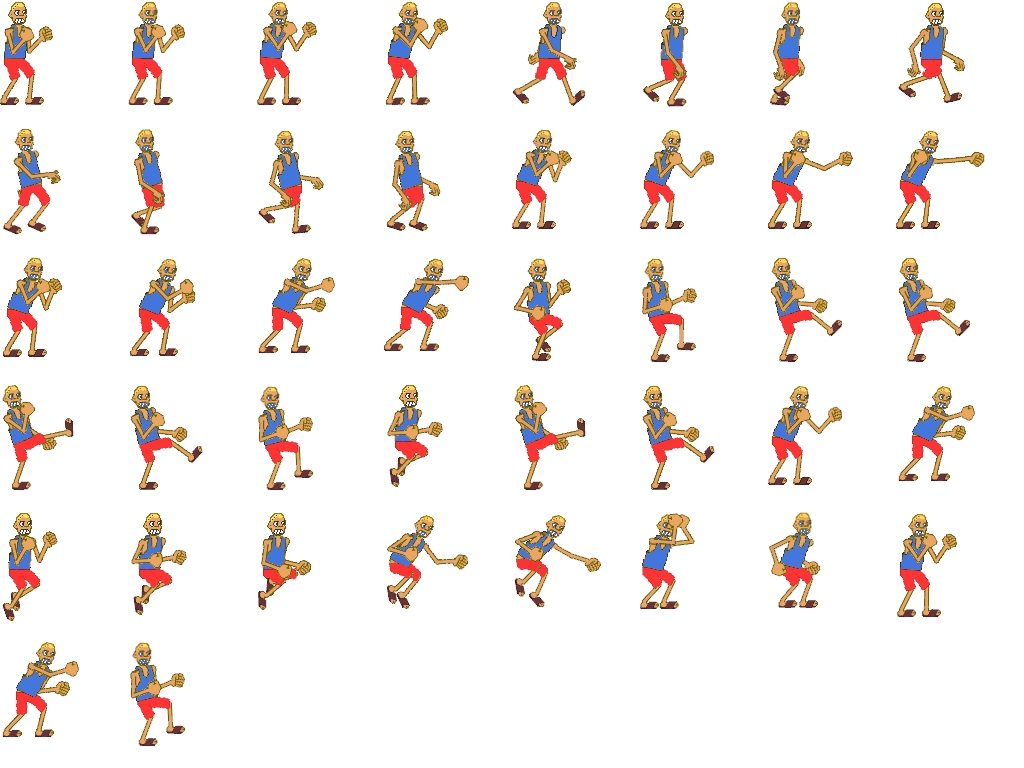
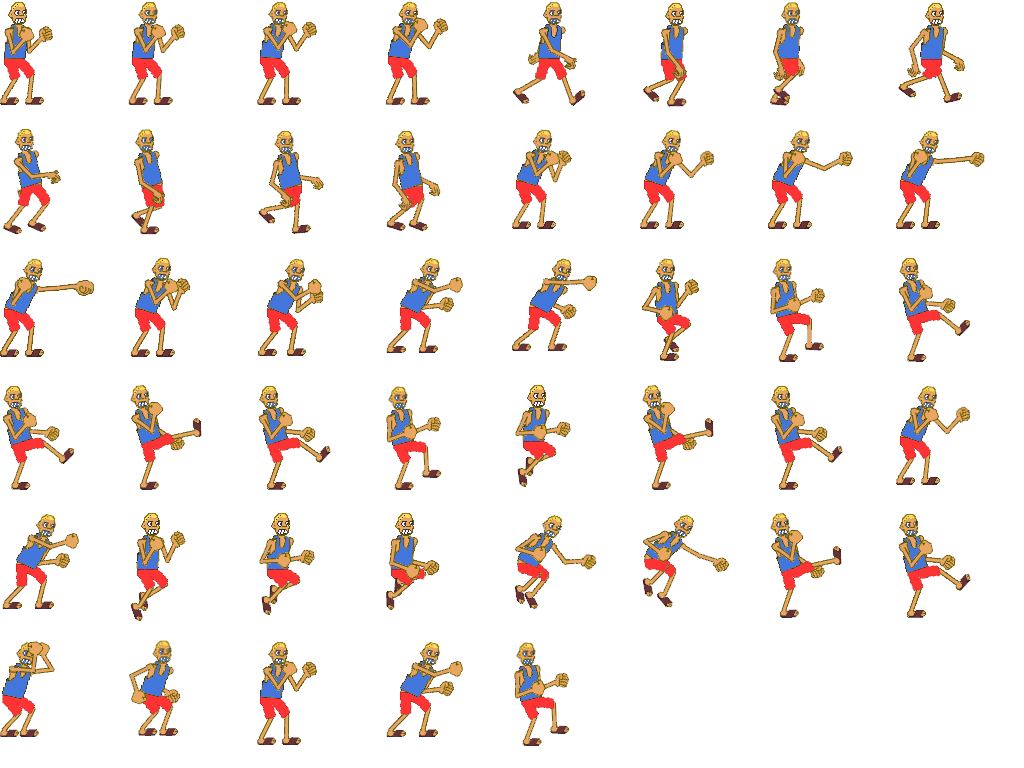
feat: 공중킥 전용 프레임 분리 + 1,1타 자세 다양화

diff --git a/src/game/characters.js b/src/game/characters.js
@@ -6,7 +6,7 @@
 export const MOVES = {
   // --- 기본 손 (빠른 발동) ---
   m1:   { n: '1', btn: 1, st: 5, ac: 3, rc: 8, dmg: 7, range: 46, h: 'h', next: { 1: 'm11', 2: 'm12' }, anim: ['jab0', 'jab1', 'jab2', 'jab1'] },
-  m11:  { n: '1,1', btn: 1, st: 6, ac: 3, rc: 9, dmg: 8, range: 46, h: 'h', next: { 2: 'm112' }, anim: ['jab1', 'jab2', 'jab3', 'jab1'] },
+  m11:  { n: '1,1', btn: 1, st: 6, ac: 3, rc: 9, dmg: 8, range: 46, h: 'h', next: { 2: 'm112' }, anim: ['jab2', 'jab4', 'jab1'] },
   m112: { n: '1,1,2', btn: 2, st: 10, ac: 4, rc: 17, dmg: 14, range: 50, h: 'm', kd: true, push: 5, anim: ['cross1', 'cross2', 'cross3'] },
   m2:   { n: '2', btn: 2, st: 7, ac: 3, rc: 10, dmg: 9, range: 48, h: 'h', next: { 1: 'm21' }, anim: ['cross0', 'cross1', 'cross2', 'cross1'] },
   m21:  { n: '2,1', btn: 1, st: 8, ac: 3, rc: 11, dmg: 10, range: 48, h: 'm', anim: ['jab1', 'jab2', 'jab3'] },
@@ -61,7 +61,7 @@ export const MOVES = {
   get4: { n: '기상 4', btn: 4, down: true, st: 12, ac: 6, rc: 19, dmg: 12, range: 60, h: 'm', kd: true, anim: ['rk1', 'rk2', 'rk3'] },
   // --- 점프 공격 ---
   air1: { n: '공중 1', btn: 1, air: true, st: 6, ac: 10, rc: 10, dmg: 8, range: 48, h: 'm', anim: ['air0', 'air1'] },
-  air4: { n: '공중 4', btn: 4, air: true, st: 8, ac: 10, rc: 12, dmg: 11, range: 54, h: 'm', anim: ['air0', 'air1'] },
+  air4: { n: '공중 4', btn: 4, air: true, st: 8, ac: 10, rc: 12, dmg: 11, range: 54, h: 'm', anim: ['airk0', 'airk1', 'airk0'] },
 };
 
 const CORE = ['m1', 'm11', 'm112', 'm2', 'm21', 'm12', 'f1', 'f3', 'f4', 'b1', 'b2', 'b3', 'b4',

diff --git a/tools/build_sprites.py b/tools/build_sprites.py
@@ -24,7 +24,7 @@ FRAMES = OrderedDict([
     ('walkb0', 'walkback_optional_000b.png'), ('walkb1', 'walkback_optional_002b.png'),
     ('walkb2', 'walkback_optional_004b.png'), ('walkb3', 'walkback_optional_006b.png'),
     ('jab0', 'punch_000.png'), ('jab1', 'punch_001.png'), ('jab2', 'punch_002.png'),
-    ('jab3', 'punch_003.png'),
+    ('jab3', 'punch_003.png'), ('jab4', 'punch_004.png'),
     ('cross0', 'punch2_000.png'), ('cross1', 'punch2_001.png'),
     ('cross2', 'punch2_002.png'), ('cross3', 'punch2_003.png'),
     ('lk0', 'kick_000.png'), ('lk1', 'kick_001.png'), ('lk2', 'kick_002.png'),
@@ -34,6 +34,7 @@ FRAMES = OrderedDict([
     ('up0', 'punch_001.png'), ('up1', 'punch2_002.png'),
     ('jump0', 'jump_002.png'), ('jump1', 'jump_004.png'), ('jump2', 'jump_006.png'),
     ('air0', 'jump_punch_002.png'), ('air1', 'jump_punch_003.png'),
+    ('airk0', 'kick_003.png'), ('airk1', 'kick_004.png'),
     ('block', 'block_000.png'),
     ('down', 'landed_000.png'),
     ('win', 'idle_002.png'),
